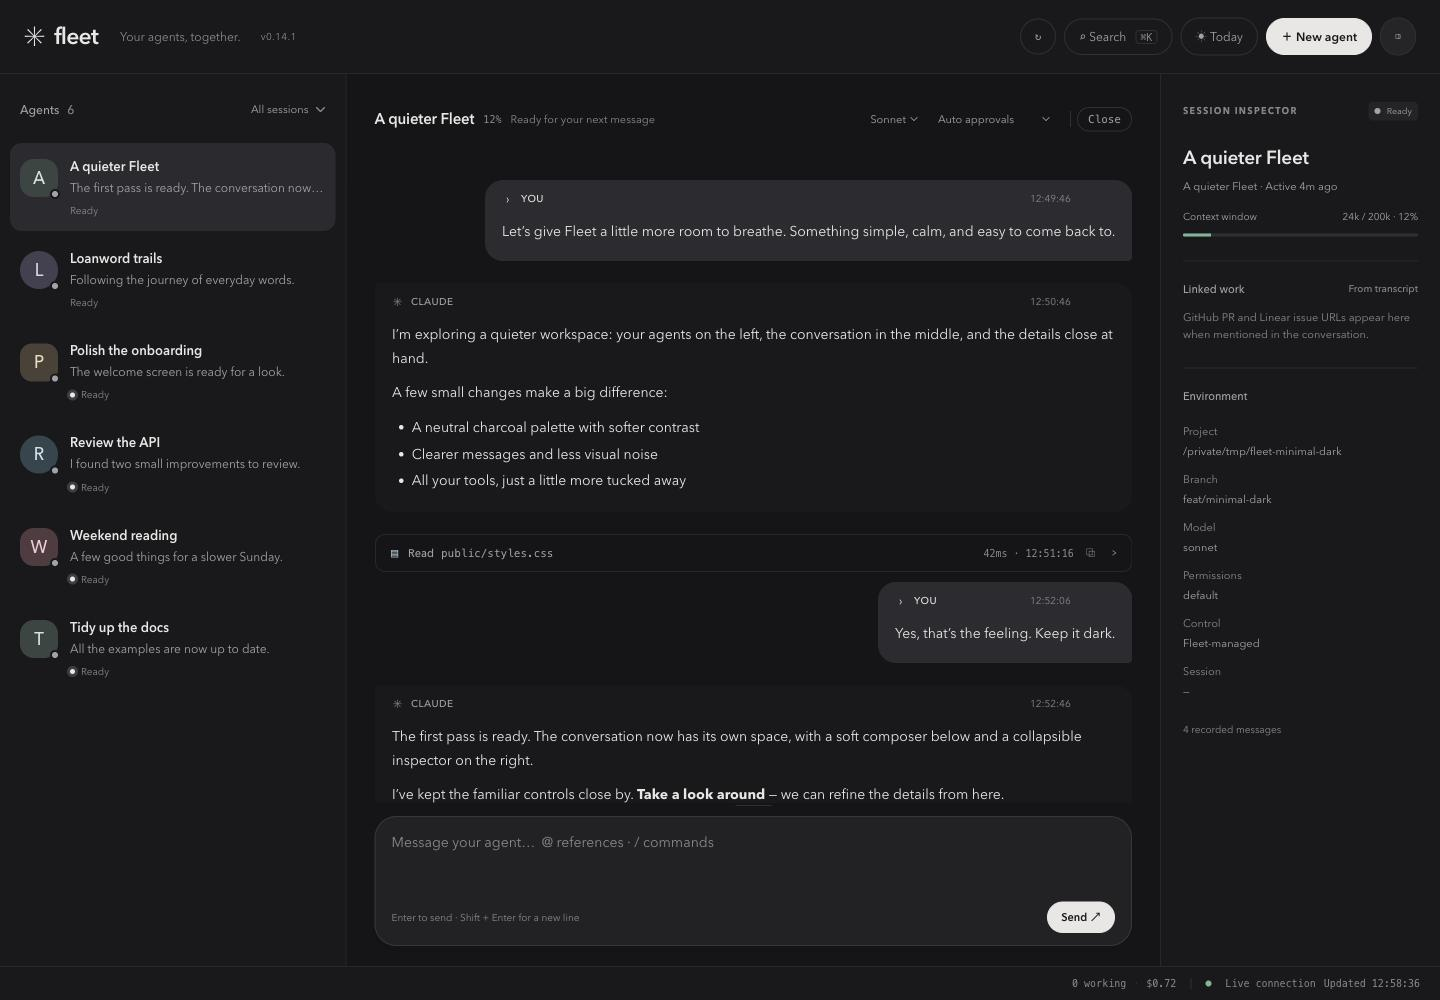
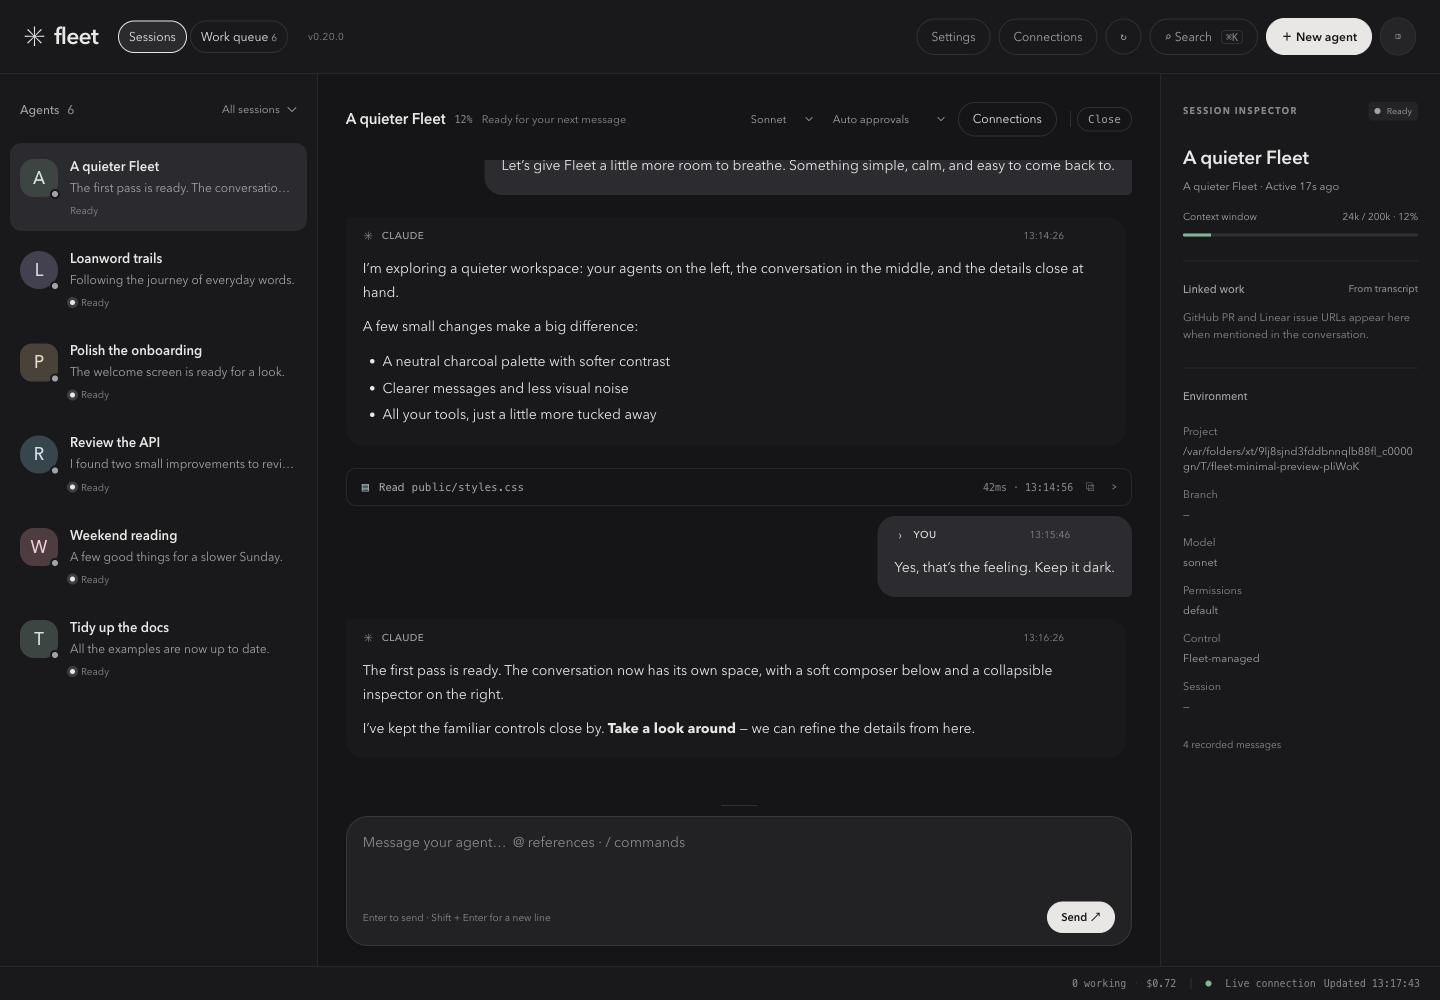
chore(release): prepare 0.20.0

diff --git a/public/styles.css b/public/styles.css
@@ -3017,7 +3017,7 @@ body[data-panel-resizing], body[data-panel-resizing] * { cursor:row-resize!impor
 .modal-spark { background:var(--raised); color:var(--text); border-color:var(--line) }
 .modal-backdrop { background:#08080ba8; backdrop-filter:blur(10px) }
 .modal input, .modal textarea, .modal select { border-radius:10px }
-#initiative-board, #day-board { border-bottom:1px solid var(--divider); font-size:12px }
+#initiative-board { border-bottom:1px solid var(--divider); font-size:12px }
 @media(min-width:721px) and (max-width:1199px) {
   .workspace { grid-template-columns:clamp(240px,var(--split,25%),300px) 1px minmax(0,1fr) }
   .detail:has(#composer) { position:relative }

diff --git a/docs/plans/2026-10-01-minimal-dark-design.md b/docs/plans/2026-10-01-minimal-dark-design.md
@@ -2,8 +2,10 @@
 
 Approved by Sergey on October 1, 2026, from the supplied Grok Bot reference.
 
-Use three columns: a compact session sidebar, the primary conversation, and a collapsible inspector. Neutral charcoal surfaces, warm white prose, small agent avatars and status dots replace the dense terminal presentation. Keep monospace for code and tool output. Messages use soft bubbles and the composer uses a rounded surface. Preserve approvals, models, search, archive, session references, attachments, teams and Today controls.
+Use three columns: a compact session sidebar, the primary conversation, and a collapsible inspector. Neutral charcoal surfaces, warm white prose, small agent avatars and status dots replace the dense terminal presentation. Keep monospace for code and tool output. Messages use soft bubbles and the composer uses a rounded surface. Preserve approvals, models, search, archive, session references, attachments, teams, Work queue, Connections and Settings controls.
 
 Desktop: a roughly 280px resizable sidebar, flexible conversation, and 280px inspector. Smaller widths collapse the inspector by default; mobile stacks the session list and conversation. Inspector visibility persists. External and child sessions retain their read-only detail views. Existing SDK, API, polling, draft state and permission behavior remain intact.
 
 Verification: full existing Node test suite plus browser checks with synthetic sessions for layout, selection, inspector toggle, expanded tools, composer, search/new-agent dialogs and narrow viewports. No real transcripts in committed screenshots.
+
+Release scope: rebased onto 0.19.0; excludes the unrelated unreleased Today panel from the original local checkout.

diff --git a/docs/superpowers/plans/2026-10-01-minimal-dark.md b/docs/superpowers/plans/2026-10-01-minimal-dark.md
@@ -14,4 +14,4 @@ Preserve existing controls and permission behavior. No new dependencies. Synthet
 
 ## Verification
 
-185 existing tests pass. Browser checked at 1440×1000, 1000×800 and 390×844: no horizontal overflow, session selection works, inspector toggles, completed tool output expands, composer remains reachable, and Search/New agent dialogs open. Screenshot uses only synthetic sessions. Reproduce with `node docs/prototypes/minimal-dark/preview-server.js`.
+209 existing tests pass after integration with the latest release. Browser checked at 1440×1000, 1000×800 and 390×844: no horizontal overflow, session selection works, inspector toggles, completed tool output expands, composer remains reachable, and Search/New agent dialogs open. Released Work queue and Settings controls were also checked after the rebase. Screenshot uses only synthetic sessions. Reproduce with `node docs/prototypes/minimal-dark/preview-server.js`.
